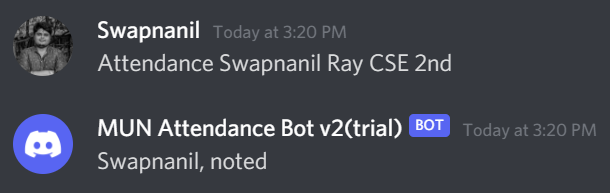
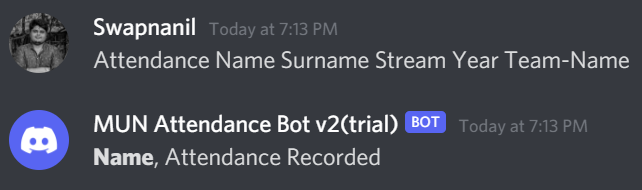
Updated Readme.md, added Screenshots in \assets

Changed region(s): [[0.0, 0.5789, 0.9967, 0.9211], [0.0, 0.0526, 0.9967, 0.3947]]

diff --git a/MUNBot.py b/MUNBot.py
@@ -5,7 +5,7 @@ from discord.ext import commands
 import csv
 
 
-TOKEN = 'ODQzODU1NjcxNDAwMjAyMjQw.YKJ71g._N6DP2oFpoq9WWsZqgug60ZSehY'
+TOKEN = 'ODQzODU1NjcxNDAwMjAyMjQw.YKJ71g.DGzv54_tP7lT8_QHQl0-FM--H64'
 CHANNEL_ID=int(829356662665642067)
 VOICE_ID=int(829356662665642068)
 client = commands.Bot(command_prefix = '')

diff --git a/README.md b/README.md
@@ -2,18 +2,38 @@
 
 ## A Discord Bot for IEM MUN 2021 Official Discord Server
 
-<h1> Text Attendance Formats - </h1>
+### Dependency Installation - 
+```bash
+pip install requirements.txt
+```
 
-<h2>-> Attendance Name Surname Stream Year</h2>
-<h2>-> Attendance Name MiddleName Surname Stream Year</h2>
+### Attendance Formats
 
-<h1>P.S - "Attendance" is the initialiser, please maintain the spelling and case.</h1>
+1. Attendance Name Stream Year Team-Name  
+2. Attendance Name Surname Stream Year Team-Name 
+3. Attendance Name MiddleName Surname Stream Year Team-Name  
+4. Attendance Name MiddleName Surname Surname2 Stream Year Team-Name 
 
-<h1>Samples -</h1>
 
-<h2>Name & Surname Only -</h2>
-<img src='assets\NS.png'>
+**P.S - "Attendance" is the initialiser, please maintain the spelling and case.**  
+**N.B - Compulsory to be Joined into a Voice Channel(as mentioned) for the Attendance to be counted**
 
-<h2>Name & Surname w/ Middle Name -</h2>
-<img src='assets\NMS.png'>
+### Samples -
+
+```bash
+Attendance Name Stream Year Team-Name
+```  
+<img src="assets\N.png">
+```bash
+Attendance Name Surname Stream Year Team-Name
+```
+<img src="assets\NS.png">  
+```bash
+Attendance Name MiddleName Surname Stream Year Team-Name
+```  
+<img src="assets\NMS.png">
+```bash
+Attendance Name MiddleName Surname Surname2 Stream Year Team-Name
+```
+<img src="assets\NMSS.png">
 
